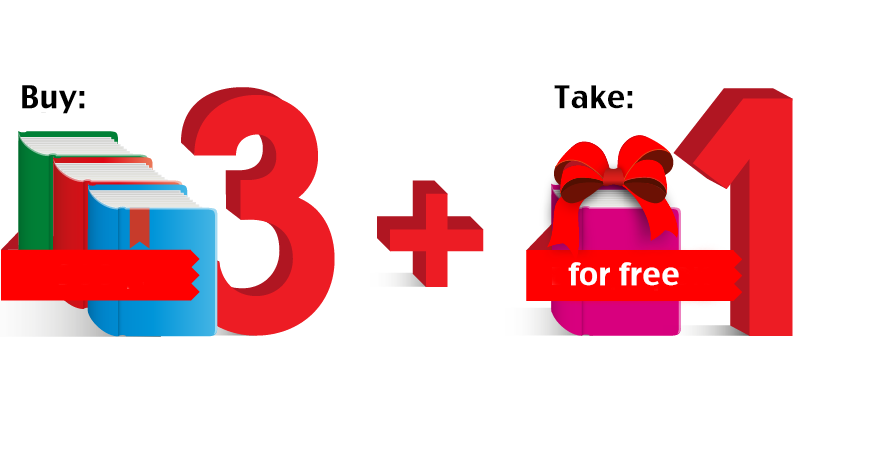
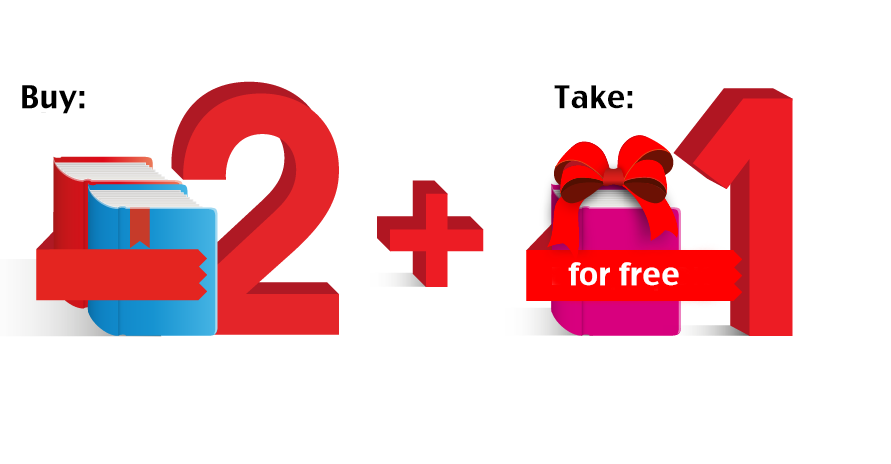
Ввел изменения номера бесплатной книги.

Changed region(s): [[0.0, 0.1509, 0.3939, 0.7241]]

diff --git a/application/controllers/user_ajax_interface.php b/application/controllers/user_ajax_interface.php
@@ -1,6 +1,6 @@
 <?php if(!defined('BASEPATH')) exit('No direct script access allowed');
 
-class User_ajax_interface extends MY_Controller{
+class User_ajax_interface extends MY_Controller {
 	
 	var $json_request = array('status'=>FALSE,'responseText'=>'','redirect'=>FALSE,'responsePhotoSrc'=>'');
 	
@@ -35,28 +35,16 @@ class User_ajax_interface extends MY_Controller{
 	public function addBookInBasket(){
 		
 		$this->json_request['responseBooks']=''; $this->json_request['booksTotalPrice'] = 0;
-		$this->json_request['responseBooksActions'] = ''; $this->json_request['isFullAction'] = FALSE;
 		if($this->postDataValidation('buy_book')):
 			$booksBasketCount = count($this->getValuesBasketBooksCookie());
-			if($booksBasketCount <= MAX_BOOKS_IN_BASKET):
-				$subNumber = floor($booksBasketCount/$this->project_config['free_book']);
-				if($subNumber > 0 && $booksBasketCount > ($this->project_config['free_book']*$subNumber+1)):
-					$booksBasketCount = $booksBasketCount - $subNumber;
-				endif;
-				if($booksBasketCount%($this->project_config['free_book']-1) == 0):
-					$this->json_request['responseBooksActions'] = $this->createBasketBlockEmptyAction();
-				elseif($booksBasketCount%($this->project_config['free_book']) == 0):
-					$this->json_request['responseBooksActions'] = $this->createBasketBlockAction($this->input->post('book'));
-					$this->json_request['isFullAction'] = TRUE;
-				endif;
-				if($this->json_request['isFullAction'] === FALSE):
-					$this->json_request['responseBooks'] = $this->createBasketBlock($this->input->post('book'));
-					$this->json_request['booksTotalPrice'] = $this->getBasketTotalPrice();
-					set_cookie('basket_total_price',$this->json_request['booksTotalPrice'],time()+86500,'','/');
-				endif;
-				$this->setDBBasket();
-				$this->json_request['status'] = TRUE;
+			if(($booksBasketCount%$this->project_config['free_book']) == 0):
+				$this->json_request['responseBooks'] = $this->createBasketBlockAction($this->input->post('book'));
+			else:
+				$this->json_request['responseBooks'] = $this->createBasketBlock($this->input->post('book'));
 			endif;
+			$this->json_request['booksTotalPrice'] = $this->getBasketTotalPrice();
+			set_cookie('basket_total_price',$this->json_request['booksTotalPrice'],time()+86500,'','/');
+			$this->json_request['status'] = TRUE;
 		else:
 			$this->json_request['responseText'] = $this->load->view('html/validation-errors',array('alert_header'=>FALSE),TRUE);
 		endif;
@@ -130,13 +118,20 @@ class User_ajax_interface extends MY_Controller{
 			if($booksIDs = json_decode($this->input->post('books'))):
 				$this->load->model('books');
 				if($books = $this->books->getBooksByIDs($booksIDs,'id,ru_title,en_title,price,price_action')):
+					$booksIDsTranse = array();
+					for($i=0;$i<count($booksIDs);$i++):
+						$booksIDsTranse[]['id'] = $booksIDs[$i];
+					endfor;
+					$sortBooks = $this->sortArrayByArray($books,$booksIDsTranse);
 					if($this->json_request['transaction'] = $this->writeToFinancialReport(1,$this->input->post('total'),$this->input->post('books'))):
 						$this->json_request['transaction_time'] = date("Y-m-d");
-						$this->json_request['order_hash'] = $this->getPayUHash($this->input->post(),$books,$this->json_request['transaction'],$this->json_request['transaction_time']);
+						$this->json_request['order_hash'] = $this->getPayUHash($this->input->post(),$sortBooks,$this->json_request['transaction'],$this->json_request['transaction_time']);
 						$this->json_request['status'] = TRUE;
 					endif;
 				endif;
 			endif;
+		else:
+			$this->json_request['responseText'] = $this->load->view('html/validation-errors',array('alert_header'=>FALSE),TRUE);
 		endif;
 		echo json_encode($this->json_request);
 	}
@@ -221,11 +216,7 @@ class User_ajax_interface extends MY_Controller{
 		endfor;
 		for($i=0;$i<count($books);$i++):
 			if(($i+1)%$this->project_config['free_book'] != 0):
-				if($books[$i]['price_action'] > 0):
-					$order_hash .= strlen($books[$i]['price_action']).$books[$i]['price_action'];
-				else:
-					$order_hash .= strlen($books[$i]['price']).$books[$i]['price'];
-				endif;
+				$order_hash .= strlen($books[$i]['price']).$books[$i]['price'];
 			endif;
 		endfor;
 		for($i=0;$i<count($books);$i++):

diff --git a/application/controllers/users_interface.php b/application/controllers/users_interface.php
@@ -37,10 +37,17 @@ class Users_interface extends MY_Controller {
 		$pagevar = array(
 			'page_content' => $this->meta_titles->getWhere(NULL,array('page_address'=>$this->uri->segment(1))),
 			'breadcrumbs' => array('pay'=>lang('user_pay')),
-			'books' => $this->books->getBooksByIDs($booksIDs,'id,ru_title,en_title,price,price_action'),
+			'books' => array(),
 			'basket_list' => array(),
 			'text_blocks' => array('content'=>'')
 		);
+		if($books = $this->books->getBooksByIDs($booksIDs,'id,ru_title,en_title,price,price_action')):
+			$booksIDsTranse = array();
+			for($i=0;$i<count($booksIDs);$i++):
+				$booksIDsTranse[]['id'] = $booksIDs[$i];
+			endfor;
+			$pagevar['books'] = $this->sortArrayByArray($books,$booksIDsTranse);
+		endif;
 		$this->load->model('pages');
 		if($content = $this->pages->getWhere($pagevar['page_content']['item_id'])):
 			$pagevar['text_blocks'] = json_decode($content[$this->uri->language_string.'_content'],TRUE);
@@ -155,7 +162,7 @@ class Users_interface extends MY_Controller {
 		if(!$books = $this->books->getBooksByIDs($booksIDs,'id,ru_title,en_title,price,price_action')):
 			show_404();
 		else:
-			$total_summa = $total_summa_dollar = $discount = $discount_dollar = 0.00;
+			$total_summa = $total_summa_dollar = 0.00;
 			
 			$set_rate = FALSE; $dollar_rate = $this->project_config['dollar_rate'];
 			if($this->uri->language_string == RUSLAN):
@@ -163,36 +170,22 @@ class Users_interface extends MY_Controller {
 				$dollar_rate = 1.00;
 			endif;
 			
-			for($i=0,$num=0;$i<count($books);$i++):
+			$booksIDsTranse = array();
+			for($i=0;$i<count($booksIDs);$i++):
+				$booksIDsTranse[]['id'] = $booksIDs[$i];
+			endfor;
+			$sortBooks = $this->sortArrayByArray($books,$booksIDsTranse);
+			for($i=0,$num=0;$i<count($sortBooks);$i++):
 				if(($i+1)%$this->project_config['free_book'] != 0):
-					$payBooks[$num]['name'] = $books[$i][$this->uri->language_string.'_title'];
+					$payBooks[$num]['name'] = $sortBooks[$i][$this->uri->language_string.'_title'];
 					$payBooks[$num]['qty'] = 1;
-					if($books[$i]['price_action'] > 0):
-						$total_summa += $books[$i]['price_action'];
-						$total_summa_dollar += round($books[$i]['price_action']/getDollarRate($set_rate,$dollar_rate),2,PHP_ROUND_HALF_EVEN);
-						$payBooks[$num]['amt'] = round($books[$i]['price_action']/getDollarRate($set_rate,$dollar_rate),2,PHP_ROUND_HALF_EVEN);
-					else:
-						$total_summa += $books[$i]['price'];
-						$total_summa_dollar += round($books[$i]['price']/getDollarRate($set_rate,$dollar_rate),2,PHP_ROUND_HALF_EVEN);
-						$payBooks[$num]['amt'] = round($books[$i]['price']/getDollarRate($set_rate,$dollar_rate),2,PHP_ROUND_HALF_EVEN);
-					endif;
+					$total_summa += $sortBooks[$i]['price'];
+					$total_summa_dollar += round($sortBooks[$i]['price']/getDollarRate($set_rate,$dollar_rate),2,PHP_ROUND_HALF_EVEN);
+					$payBooks[$num]['amt'] = round($sortBooks[$i]['price']/getDollarRate($set_rate,$dollar_rate),2,PHP_ROUND_HALF_EVEN);
 					$num++;
 				endif;
 			endfor;
 			$action_price = round($this->project_config['action_price']/getDollarRate(),2,PHP_ROUND_HALF_EVEN);
-			if($this->project_config['action_price'] > 0):
-				if($total_summa_dollar > $action_price):
-					$discount = round($total_summa*($this->project_config['action_percent']/100),2,PHP_ROUND_HALF_EVEN);
-					$discount_dollar = round($total_summa_dollar*($this->project_config['action_percent']/100),2,PHP_ROUND_HALF_EVEN);
-				endif;
-			endif;
-			$total_summa_dollar -= $discount_dollar;
-			$total_summa -= $discount;
-			if($discount_dollar > 0):
-				for($i=0;$i<count($payBooks);$i++):
-					$payBooks[$i]['amt'] -= round($payBooks[$i]['amt']*($this->project_config['action_percent']/100),2,PHP_ROUND_HALF_EVEN);
-				endfor;
-			endif;
 			$this->writeToFinancialReport(2,$total_summa,json_encode($booksIDs));
 		endif;
 		$PaymentOption = "PayPal";

diff --git a/application/views/users_interface/forms/pay-u.php b/application/views/users_interface/forms/pay-u.php
@@ -9,13 +9,8 @@
 	<input name="ORDER_PCODE[]" type="hidden" value="<?=$books[$i]['id'];?>">
 	<?php endif;?>
 <?php if(($i+1)%$this->project_config['free_book'] != 0):?>
-	<?php if($books[$i]['price_action'] > 0):?>
-	<input name="ORDER_PRICE[]" type="hidden" value="<?=$books[$i]['price_action'];?>">
-		<?php $total_summa += $books[$i]['price_action'];?>
-	<?php else:?>
 	<input name="ORDER_PRICE[]" type="hidden" value="<?=$books[$i]['price'];?>">
-		<?php $total_summa += $books[$i]['price'];?>
-	<?php endif;?>
+	<?php $total_summa += $books[$i]['price'];?>
 <?php endif;?>
 	<?php if(($i+1)%$this->project_config['free_book'] != 0):?>
 	<input name="ORDER_PRICE_TYPE[]" type="hidden" value="GROSS">
@@ -24,21 +19,13 @@
 	<?php endif;?>
 <?php endfor;?>
 	<input name="ORDER_SHIPPING" type="hidden" value="0">
-<?php
-	$discount = 0;
-	if($this->project_config['action_price'] > 0):
-		if($total_summa > $this->project_config['action_price']):
-			$discount = round($total_summa*($this->project_config['action_percent']/100),2,PHP_ROUND_HALF_EVEN);
-		endif;
-	endif;
-?>
-	<input name="DISCOUNT" type="hidden" value="<?=$discount;?>" id="DISCOUNT">
 
+	<input name="DISCOUNT" type="hidden" value="0" id="DISCOUNT">
 	<input name="PRICES_CURRENCY" type="hidden" value="RUB">
 	<input name="PAY_METHOD" autocomplete="off" type="hidden" value="" id="PAY_METHOD">
 	<input name="ORDER_HASH" autocomplete="off" type="hidden" value="" id="ORDER_HASH">
 	<input name="BACK_REF" type="hidden" value="<?=site_url('cabinet');?>">
 	<input name="LANGUAGE" type="hidden" value="<?=$this->uri->language_string;?>" id="LANGUAGE">
 	<input name="TESTORDER" type="hidden" value="FALSE">
-	<div id="TOTAL_SUMMA" class="hidden"><?=$total_summa-$discount;?></div>
+	<div id="TOTAL_SUMMA" class="hidden"><?=$total_summa;?></div>
 </form>

diff --git a/application/views/guests_interface/html/basket/basket-full-lists.php b/application/views/guests_interface/html/basket/basket-full-lists.php
@@ -1,19 +1,11 @@
 <?php 
 	$HTMLbasketList = '';
-	$HTMLbasketActionList = '';
-	$booksBasketCount = count($basket_list); $freeBooks = 0;
-	for($i=0;$i<$booksBasketCount;$i++):
-		if(($i+1)%$this->project_config['free_book'] != 0):
-			$HTMLbasketList .= $this->load->view('guests_interface/html/basket/basket-item',array('book'=>$basket_list[$i]),TRUE);
+	for($i=0;$i<count($basket_list);$i++):
+		if(($i+1)%$this->project_config['free_book'] == 0):
+			$HTMLbasketList .= $this->load->view('guests_interface/html/basket/basket-item-sale-full',array('book'=>$basket_list[$i]),TRUE);
 		else:
-			$freeBooks++;
-			$HTMLbasketActionList .= $this->load->view('guests_interface/html/basket/basket-item-sale-full',array('book'=>$basket_list[$i]),TRUE);
-			$HTMLbasketActionList .= $this->load->view('guests_interface/html/basket/basket-item-sale-empty',array('hidden'=>TRUE),TRUE);
+			$HTMLbasketList .= $this->load->view('guests_interface/html/basket/basket-item',array('book'=>$basket_list[$i]),TRUE);
 		endif;
 	endfor;
-	if(($freeBooks == 0 && $booksBasketCount == 3) || ($freeBooks == 1 && $booksBasketCount == 7)):
-		$HTMLbasketActionList .= $this->load->view('guests_interface/html/basket/basket-item-sale-empty',array('hidden'=>FALSE),TRUE);
-	endif;
 ?>
 <div class="basket-items-list"><?=$HTMLbasketList;?></div>
-<div class="basket-items-action-list"><?=$HTMLbasketActionList;?></div>

diff --git a/application/views/admin_interface/forms/promo.php b/application/views/admin_interface/forms/promo.php
@@ -1,13 +1,13 @@
 <form action="<?=site_url(ADMIN_START_PAGE.'/promo-save');?>" method="POST" class="form-profile">
+	<!--<label>Сумма для скидки:</label>-->
+		<input type="hidden" class="valid-required" name="action_price" value="<?=$config['action_price'];?>">
 	<div class="control-group">
 		<label>Курс доллара:</label>
 		<input type="text" class="valid-required" name="dollar_rate" value="<?=$config['dollar_rate']?>"><br/>
 		<label>Номер бесплатной книги:</label>
-		<input type="text" class="valid-required" name="free_book" readonly="readonly" value="<?=$config['free_book']?>"><br/>
+		<input type="text" class="valid-required" name="free_book" value="<?=$config['free_book']?>"><br/>
 		<label>Количество бесплатных книг:</label>
-		<input type="text" class="valid-required" name="count_free_book" readonly="readonly" value="<?=$config['count_free_book']?>"><br/>
-		<label>Сумма для скидки:</label>
-		<input type="text" class="valid-required" name="action_price" value="<?=$config['action_price'];?>"><br/>
+		<input type="text" class="valid-required" name="count_free_book" value="<?=$config['count_free_book']?>"><br/>
 		<label>Процент скидки:</label>
 		<input type="text" class="valid-required" name="action_percent" value="<?=$config['action_percent'];?>"><br/>
 	</div>

diff --git a/application/views/guests_interface/includes/header.php b/application/views/guests_interface/includes/header.php
@@ -69,9 +69,8 @@
 					<img class="qr pos2" src="<?=baseURL('img/qr.png');?>">
 					<div style="position: absolute; bottom: -1px; right: 0;">
 						<a href="skype:DistribBooks?call" class="top-contact"><img src="<?=baseURL('img/skype.png');?>">DistribBooks</a>
-						<a class="red button sale-popup-open"><?=lang('top_menu_promotion');?> -25%!</a>
 					<?php if($this->project_config['action_percent'] > 0):?>
-						<!--<a class="red button sale-popup-open"><?=lang('top_menu_promotion');?> -<?=$this->project_config['action_percent']?>%!</a>-->
+						<a class="red button sale-popup-open"><?=lang('top_menu_promotion');?> -<?=$this->project_config['action_percent']?>%!</a>
 					<?php endif;?>
 					</div>
 				</div>
@@ -127,9 +126,8 @@
 				<a class="min-logo" href="<?=site_url();?>"></a>
 				<div class="min-right">
 					<div class="min-div-left">
-					<a class="red button sale-popup-open"><?=lang('top_menu_promotion');?> -25%!</a>
 					<?php if($this->project_config['action_percent'] > 0):?>
-						<!--<a class="red button sale-popup-open"><?=lang('top_menu_promotion');?> -<?=$this->project_config['action_percent']?>%!</a>-->
+						<a class="red button sale-popup-open"><?=lang('top_menu_promotion');?> -<?=$this->project_config['action_percent']?>%!</a>
 					<?php endif;?>
 					</div>
 					<div class="min-div-right">

diff --git a/application/views/guests_interface/includes/header404.php b/application/views/guests_interface/includes/header404.php
@@ -32,9 +32,8 @@
 					<img class="qr pos2" src="<?=baseURL('img/qr.png');?>">
 					<div style="position: absolute; bottom: -1px; right: 0;">
 						<a href="skype:DistibBooks?call" class="top-contact"><img src="<?=baseURL('img/skype.png');?>">DistibBooks</a>
-						<a class="red button sale-popup-open"><?=lang('top_menu_promotion');?> -25%!</a>
 					<?php if($this->project_config['action_percent'] > 0):?>
-						<!--<a class="red button sale-popup-open"><?=lang('top_menu_promotion');?> -<?=$this->project_config['action_percent']?>%!</a>-->
+						<a class="red button sale-popup-open"><?=lang('top_menu_promotion');?> -<?=$this->project_config['action_percent']?>%!</a>
 					<?php endif;?>
 					</div>
 				</div>
@@ -84,9 +83,8 @@
 				<a class="min-logo" href="<?=site_url();?>"></a>
 				<div class="min-right">
 					<div class="min-div-left">
-					<a class="red button sale-popup-open"><?=lang('top_menu_promotion');?> -25%!</a>
 					<?php if($this->project_config['action_percent'] > 0):?>
-						<!--<a class="red button sale-popup-open"><?=lang('top_menu_promotion');?> -<?=$this->project_config['action_percent']?>%!</a>-->
+						<a class="red button sale-popup-open"><?=lang('top_menu_promotion');?> -<?=$this->project_config['action_percent']?>%!</a>
 					<?php endif;?>
 					</div>
 					<div class="min-div-right">

diff --git a/application/core/MY_Controller.php b/application/core/MY_Controller.php
@@ -860,6 +860,20 @@ class MY_Controller extends CI_Controller {
 		endforeach;
 		return  $retArray;
 	}
+
+	public function sortArrayByArray($array1,$array2,$field1 = 'id',$field2 = 'id'){
+		
+		$sortArray = array();
+		for($i=0;$i<count($array2);$i++):
+			for($j=0;$j<count($array1);$j++):
+				if($array2[$i][$field2] == $array1[$j][$field1]):
+					$sortArray[] = $array1[$j];
+				endif;
+			endfor;
+		endfor;
+		return $sortArray;
+	}
+	
 	/* -------------------------------------------------------------------------------------------- */
 	public function getDBBasket(){
 		
@@ -1180,13 +1194,14 @@ class MY_Controller extends CI_Controller {
 		$this->load->model('books');
 		$summa = 0;
 		if($books = $this->books->getBooksByIDs($booksIDs)):
-			for($i=0;$i<count($books);$i++):
+			$booksIDsTranse = array();
+			for($i=0;$i<count($booksIDs);$i++):
+				$booksIDsTranse[]['id'] = $booksIDs[$i];
+			endfor;
+			$sortBooks = $this->sortArrayByArray($books,$booksIDsTranse);
+			for($i=0;$i<count($sortBooks);$i++):
 				if(($i+1)%$this->project_config['free_book'] != 0):
-					if($books[$i]['price_action'] > 0):
-						$summa+=$books[$i]['price_action'];
-					else:
-						$summa+=$books[$i]['price'];
-					endif;
+					$summa+=$sortBooks[$i]['price'];
 				endif;
 			endfor;
 		endif;

diff --git a/application/config/constants.php b/application/config/constants.php
@@ -27,7 +27,7 @@ define('NO_AVATAR',								getcwd().'/img/icons/no-avatar.png');
 define('NO_AVATAR_THUMBNAIL',					getcwd().'/img/icons/no-avatar-thumbnail.png');
 
 define('PER_PAGE_DEFAULT',						12);
-define('MAX_BOOKS_IN_BASKET',					8);
+define('MAX_BOOKS_IN_BASKET',					6);
 
 define('TOOLTIP_FIELD_BLANK',					'data-trigger="manual" data-placement="right" role="tooltip" data-original-title="Поле не заполнено"');
 define('TOOLTIP_FIELD_IMAGE_UPLOAD',			'data-trigger="hover" data-placement="top" role="tooltip" data-original-title="Нажмите для загрузки фотографии"');

diff --git a/application/language/russian/localization/interface_lang.php b/application/language/russian/localization/interface_lang.php
@@ -78,7 +78,7 @@ $lang['form_recall_name'] = "Представьтесь";
 $lang['form_recall_number'] = "Текст сообщения";
 $lang['form_recall_button'] = "Отправить сообщение";
 
-$lang['basket_title'] = "Каждая четвертая книга в подарок!";
+$lang['basket_title'] = "Каждая третья книга в подарок!";
 $lang['basket_format'] = "Формат";
 $lang['basket_buy'] = "Оформить заказ";
 $lang['basket_choice_price'] = "Выбрать";

diff --git a/application/language/english/localization/interface_lang.php b/application/language/english/localization/interface_lang.php
@@ -77,7 +77,7 @@ $lang['form_recall_name'] = "Introduce yourself";
 $lang['form_recall_number'] = "Message text";
 $lang['form_recall_button'] = "Send message";
 
-$lang['basket_title'] = "Every fourth book as a gift!";
+$lang['basket_title'] = "Every third book as a gift!";
 $lang['basket_format'] = "Format";
 $lang['basket_buy'] = "Checkout";
 $lang['basket_choice_price'] = "Choice";

diff --git a/application/controllers/guest_ajax_interface.php b/application/controllers/guest_ajax_interface.php
@@ -1,6 +1,6 @@
 <?php if(!defined('BASEPATH')) exit('No direct script access allowed');
 
-class Guest_ajax_interface extends MY_Controller{
+class Guest_ajax_interface extends MY_Controller {
 	
 	var $json_request = array('status'=>FALSE,'responseText'=>'','redirect'=>FALSE,'responsePhotoSrc'=>'');
 	
